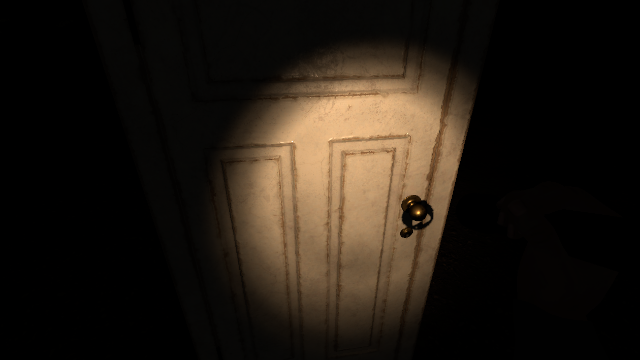
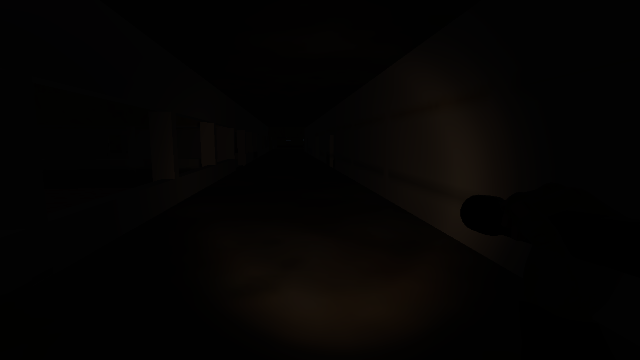
fix blink while paused

Changed region(s): [[0.3125, 0.1222, 0.75, 0.9167]]

diff --git a/Assets/ThunderWire Studio/UHFPS/Content/Scripts/Runtime/Core/Game/GameManager.cs b/Assets/ThunderWire Studio/UHFPS/Content/Scripts/Runtime/Core/Game/GameManager.cs
@@ -20,6 +20,7 @@ namespace UHFPS.Runtime
     [Docs("https://docs.twgamesdev.com/uhfps/guides/game-manager")]
     public class GameManager : Singleton<GameManager>
     {
+       
         public enum PanelType { GamePanel, PausePanel, DeadPanel, MainPanel, InventoryPanel, MapPanel }
 
         [Serializable]
@@ -48,6 +49,7 @@ namespace UHFPS.Runtime
         public Volume GlobalPPVolume;
         public Volume HealthPPVolume;
         public BackgroundFader BackgroundFade;
+        public GameObject BlinkEffect;
 
         #region Panels
         // Main Panels
@@ -68,6 +70,7 @@ namespace UHFPS.Runtime
         #region Pause
         public Button SaveGameButton;
         public Button LoadGameButton;
+     
         #endregion
 
         #region UserInterface
@@ -75,7 +78,7 @@ namespace UHFPS.Runtime
         public Image ReticleImage;
         public Image InteractProgress;
         public Slider StaminaSlider;
-
+       
         // Interaction
         public InteractInfoPanel InteractInfoPanel;
         public ControlsInfoPanel ControlsInfoPanel;
@@ -671,12 +674,14 @@ namespace UHFPS.Runtime
                 case PanelType.PausePanel:
                     SetPanelInteractable(panel);
                     GamePanel.alpha = 0;
+                    BlinkEffect.SetActive(false);
                     PausePanel.alpha = 1;
                     DeadPanel.alpha = 0;
                     break;
                 case PanelType.GamePanel:
                     SetPanelInteractable(panel);
                     GamePanel.alpha = 1;
+                    BlinkEffect.SetActive(true);
                     PausePanel.alpha = 0;
                     DeadPanel.alpha = 0;
                     break;
@@ -912,6 +917,7 @@ namespace UHFPS.Runtime
                 IsPaused = !IsPaused;
                 GamePanel.alpha = IsPaused ? 0 : 1;
                 PausePanel.alpha = IsPaused ? 1 : 0;
+                BlinkEffect.SetActive(!IsPaused);
                 SetPanelInteractable(IsPaused ? PanelType.PausePanel : PanelType.GamePanel);
 
                 // show blur

diff --git a/Assets/ThunderWire Studio/UHFPS/Content/Scripts/Editor/Runtime/GameManagerEditor.cs b/Assets/ThunderWire Studio/UHFPS/Content/Scripts/Editor/Runtime/GameManagerEditor.cs
@@ -20,6 +20,7 @@ namespace UHFPS.Editors
                 Properties.Draw("GlobalPPVolume");
                 Properties.Draw("HealthPPVolume");
                 Properties.Draw("BackgroundFade");
+                Properties.Draw("BlinkEffect");
 
                 EditorGUILayout.Space();
                 EditorGUILayout.LabelField("Settings", EditorStyles.boldLabel);
